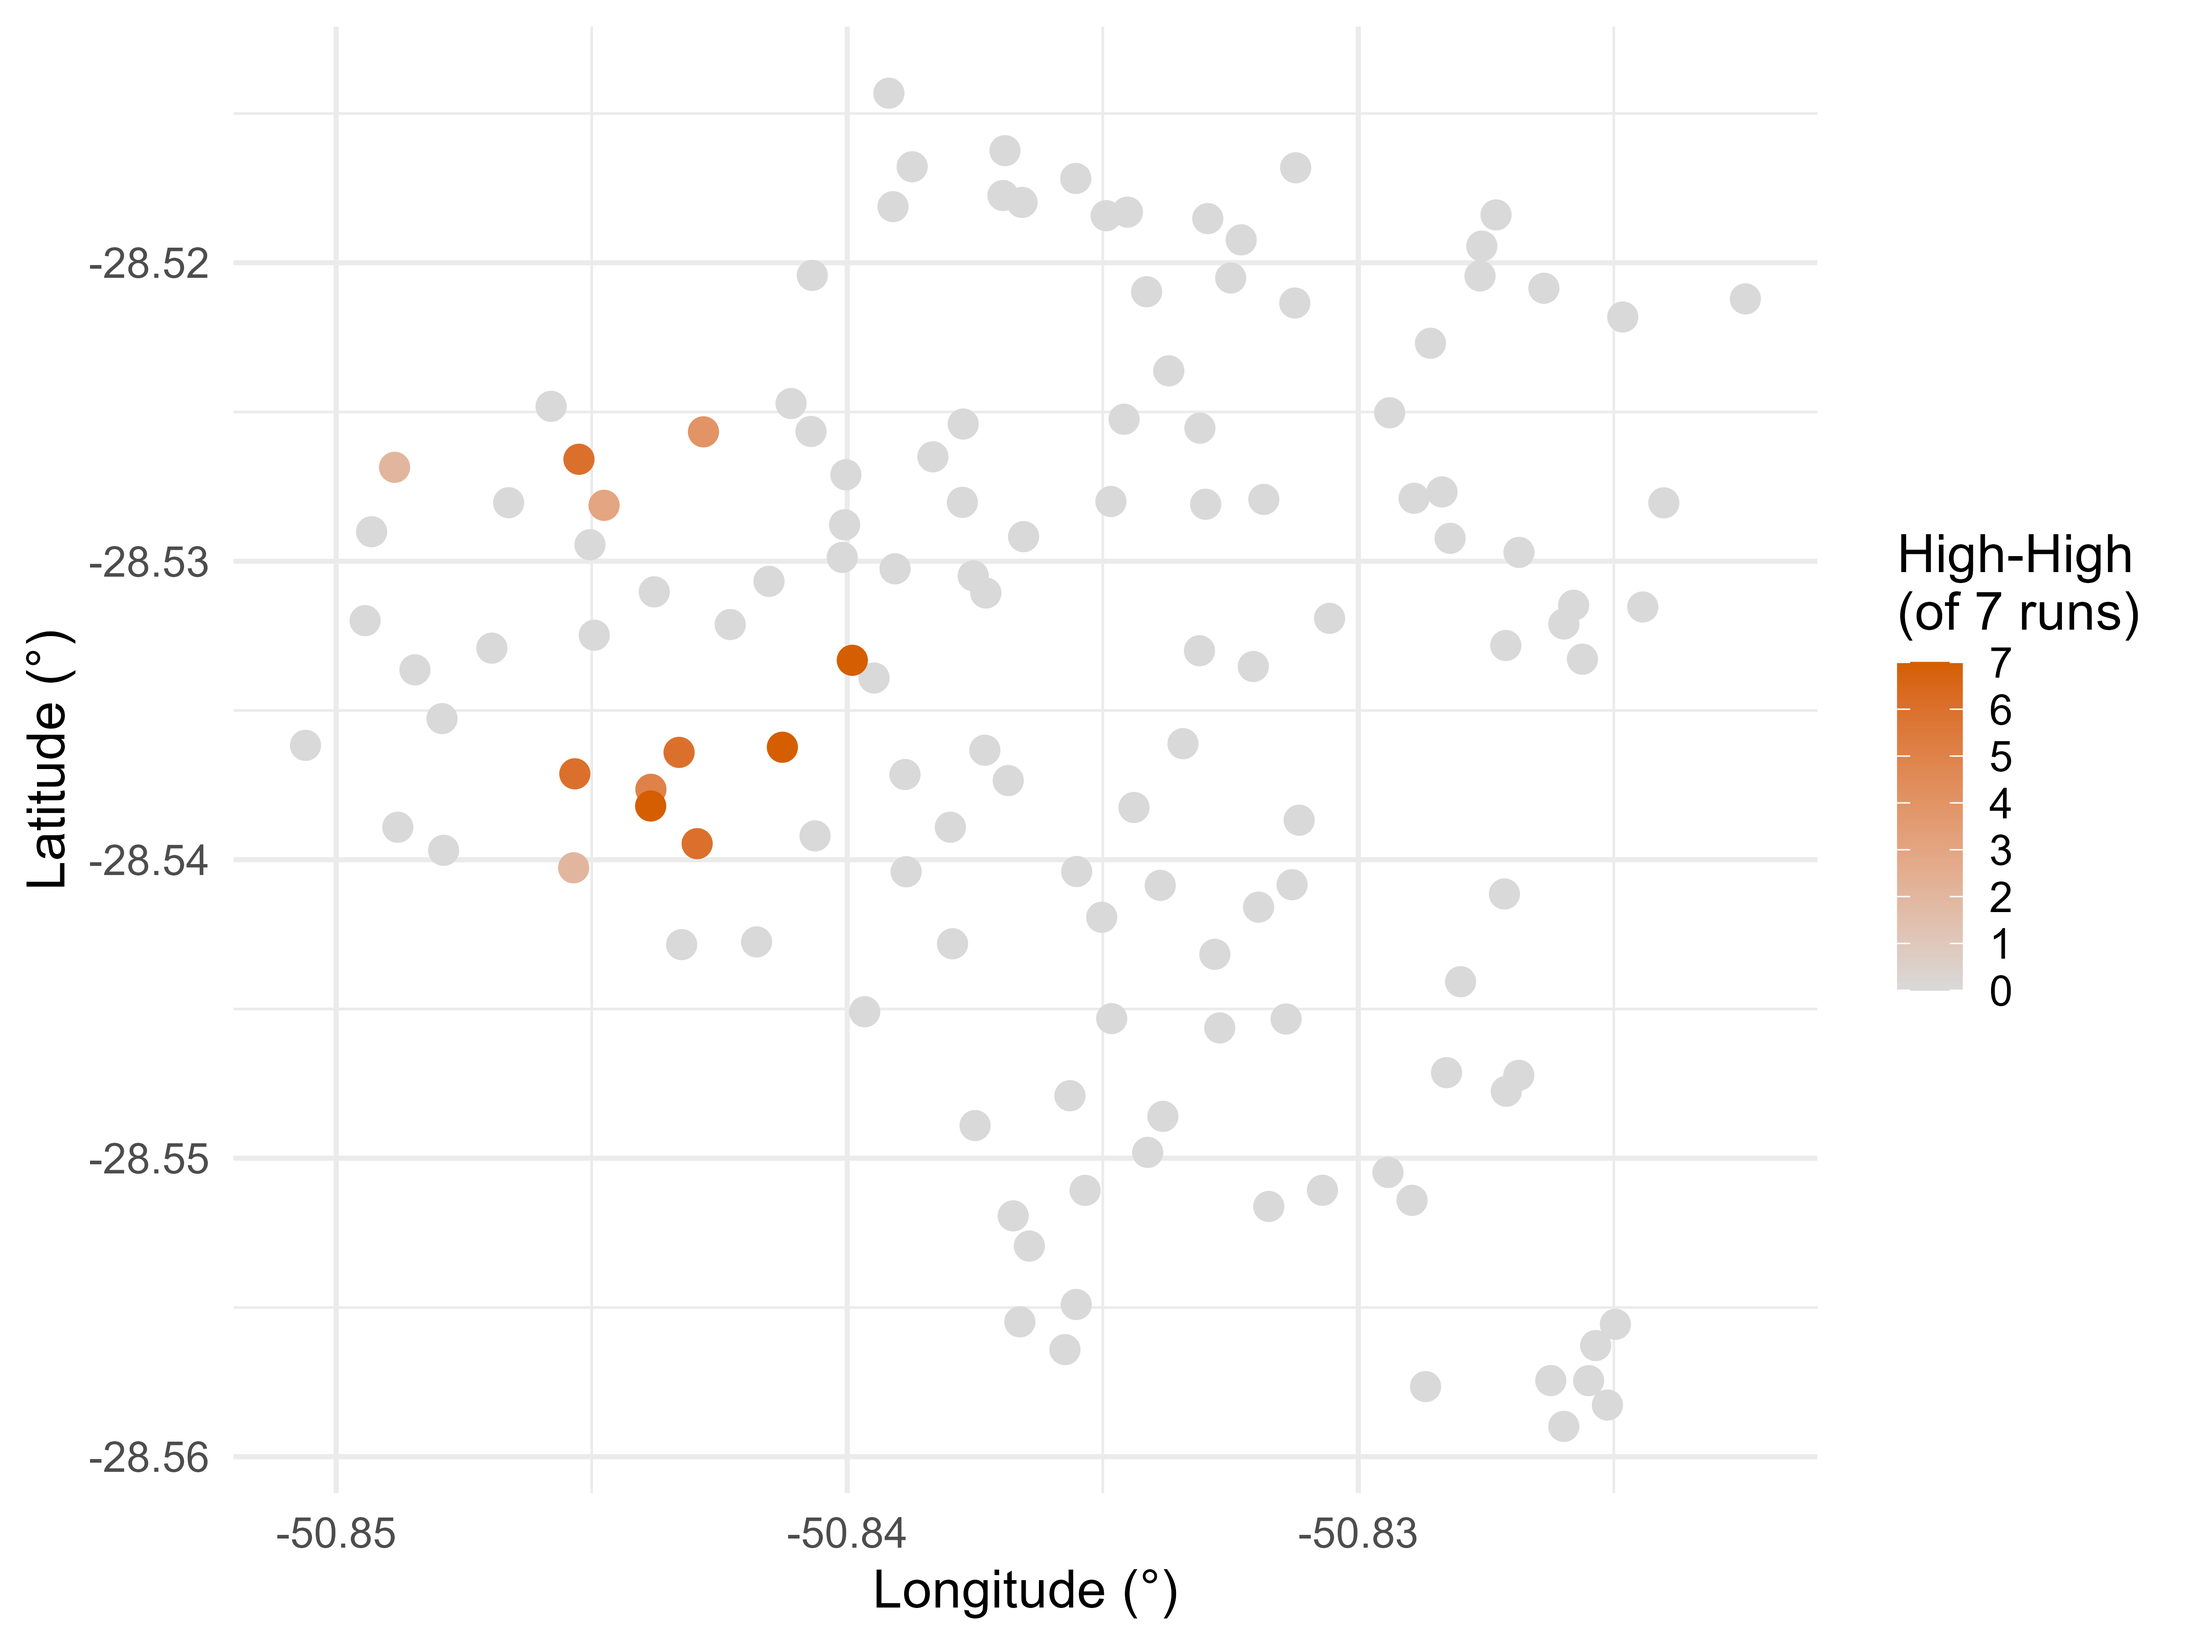
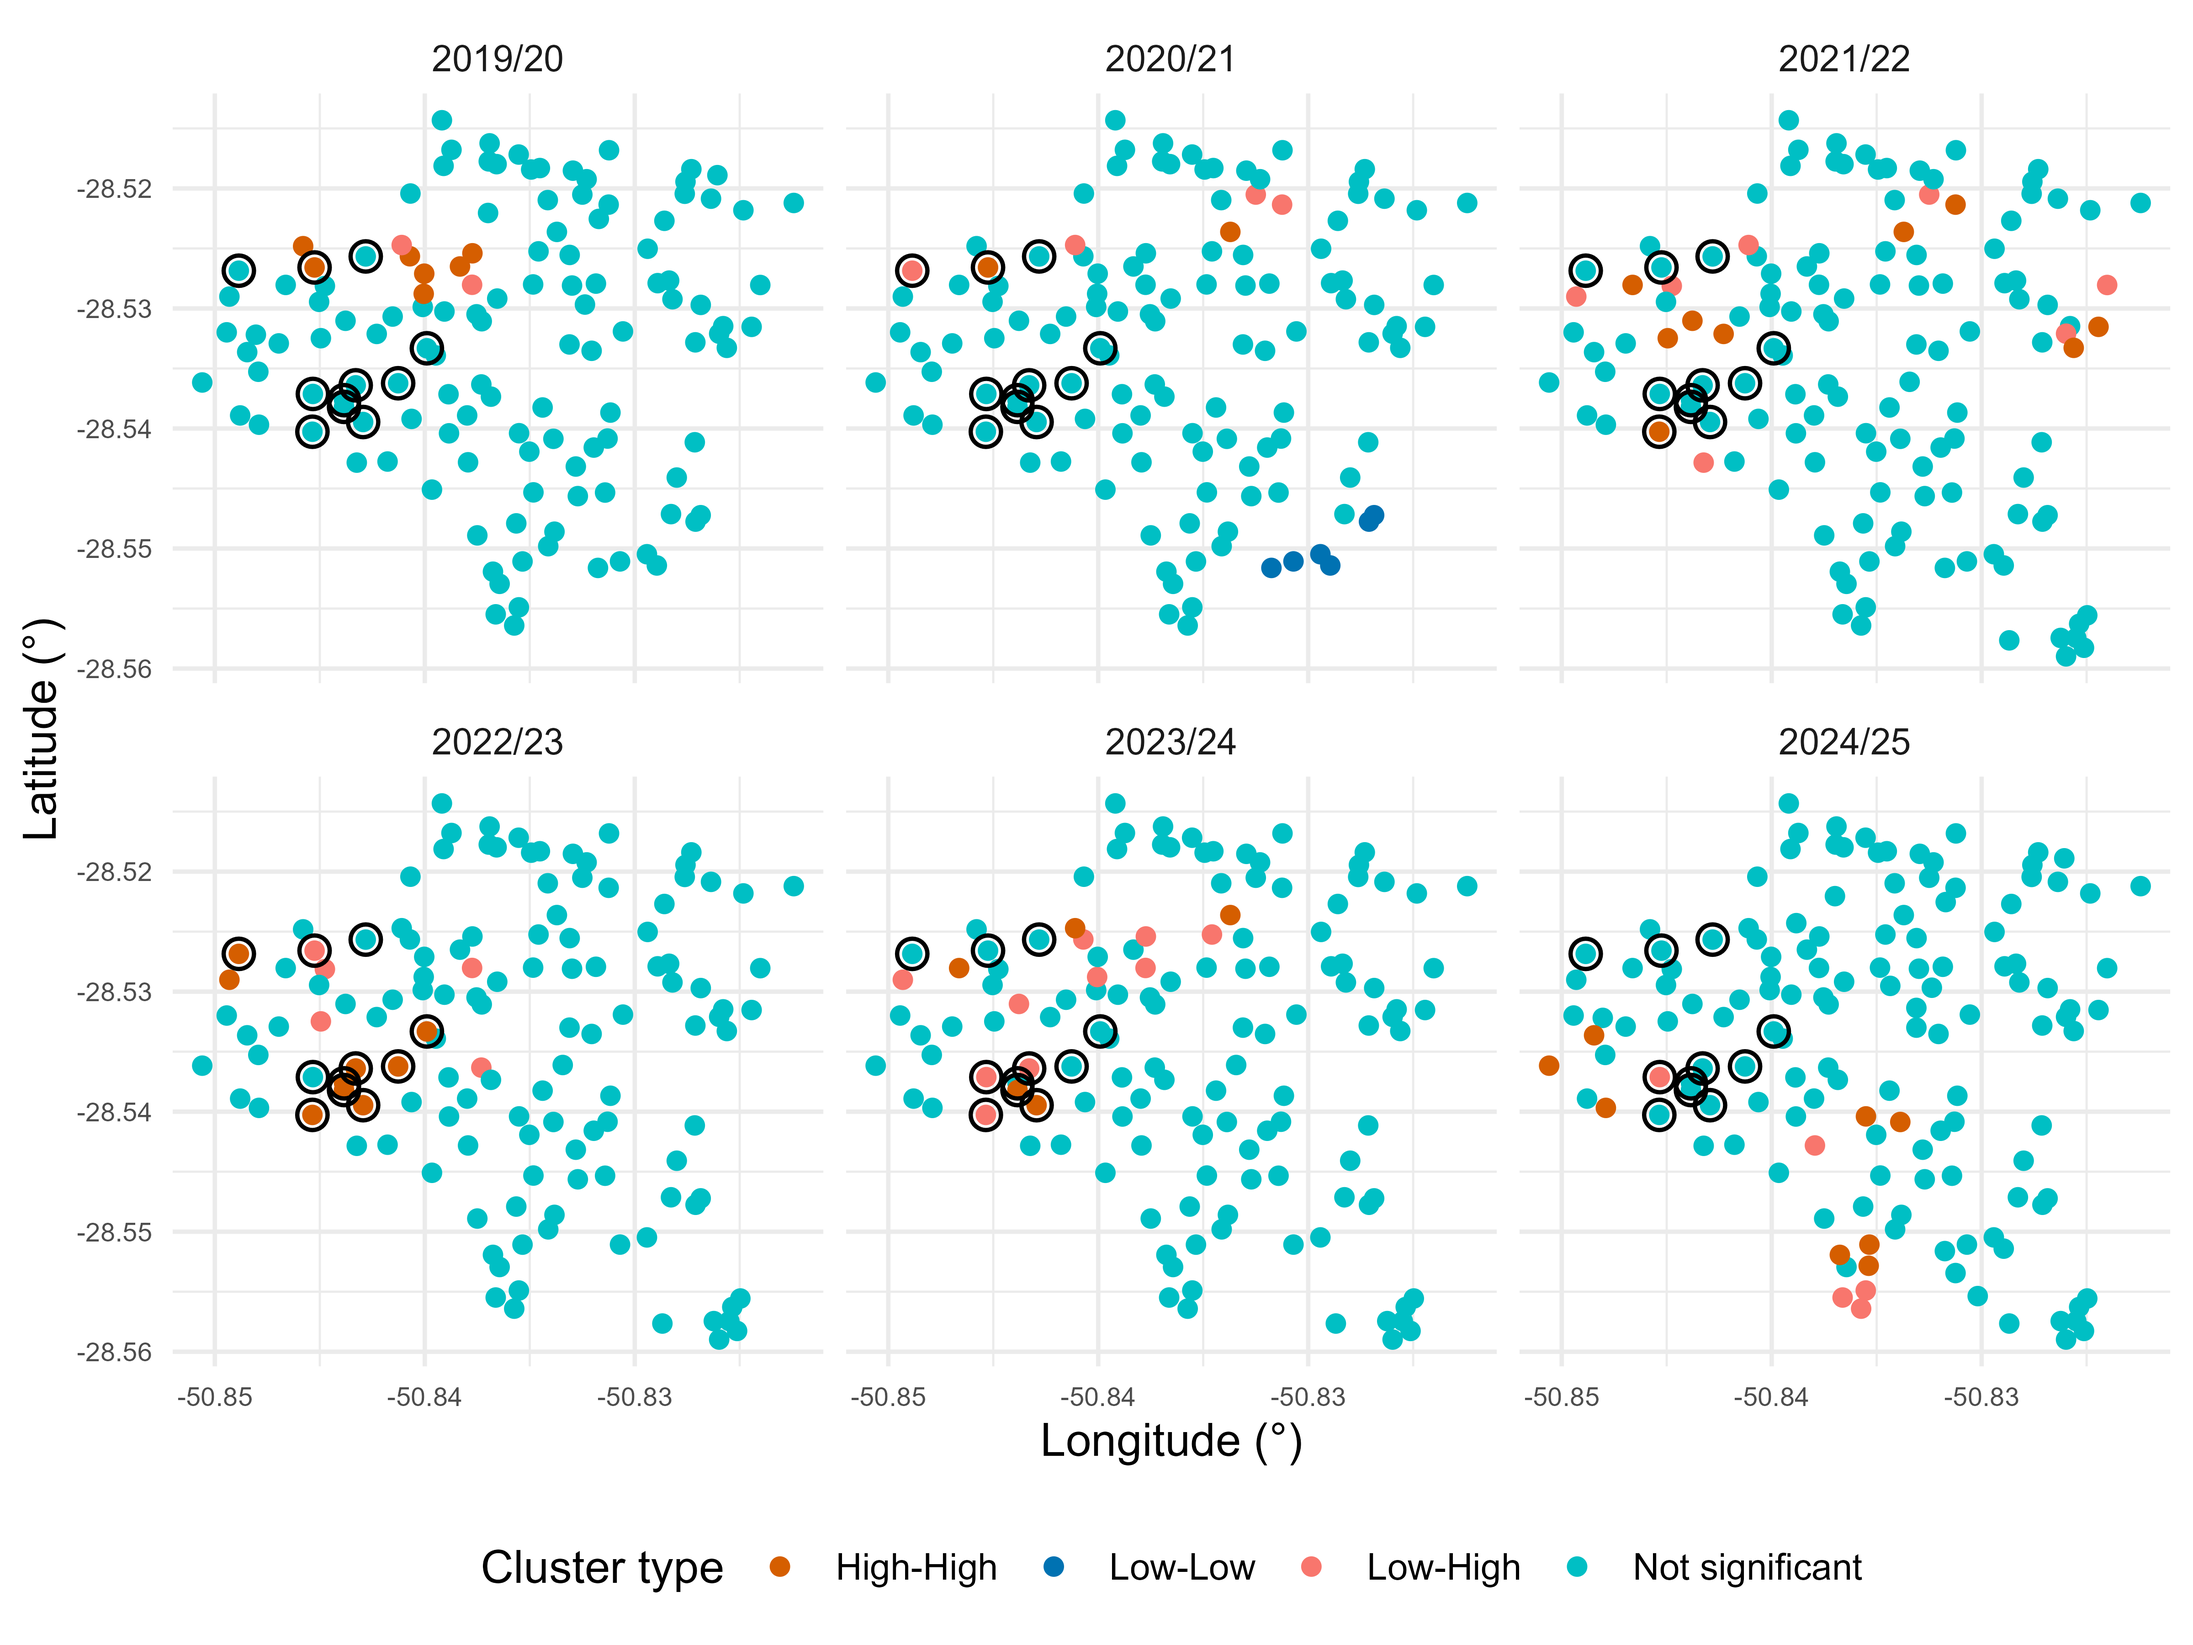
Renumber the supplementary tables and figures in the order of first citation in the manuscript
Sheet names S2 (Moran's I by k), S4 (class distribution), S5 (Kruskal-Wallis by scenario) and S6-S9 (Dunn tests), and figure files S1 (seasonal LISA maps), S2 (hotspot stability) and S3 (leave-one-event-out validation), now match the revised manuscript. No statistic changed.

diff --git a/README.md b/README.md
@@ -10,7 +10,7 @@ Analysis code and derived dataset for the manuscript *Spatial Structure and Recu
 | `spatial_recurrence_analysis.ipynb` | The same script as a Google Colab notebook |
 | `data/trap_captures_long.csv` | Derived, de-identified trap-level dataset (one row per trap and inspection date) |
 | `data/study_area_map.png` | Study-area map (Figure 1), produced in QGIS |
-| `output/tables.xlsx` | All tables, one sheet each |
+| `output/tables.xlsx` | All tables, one sheet each; the `S` prefixes follow the numbering of the supplementary tables in the manuscript (order of first citation) |
 | `output/figures/` | Figures 1 to 5 and S1 to S3 of the manuscript (600 dpi); Figure 1 is a copy of the QGIS map |
 | `output/analysis_log.txt` | Console log of the run that produced `output/` |
 | `output/session_info.txt` | R and package versions of that run |
@@ -60,8 +60,8 @@ Missing packages are installed automatically. The mixed models (section 14) take
 | 1 | Data preparation, trap activity by season | `trap_activity`, `traps_per_season` |
 | 2 to 3 | Trap-level summaries, k-nearest-neighbor weights (k = 4), global Moran's I and LISA for the full period | `main_text_numbers` |
 | 3b | Global Moran's I and LISA on the non-critical dates and in each growing season, with FDR correction | `moran_by_season`, `lisa_by_season` |
-| 4 to 5 | Critical events (orchard FTD > 0.5), recurrence classes, capture intensity, Moran's I and LISA during critical events, sensitivity to k, common trap sets, geometry of the High-High cluster | `S1_moran_by_k`, `class_summary`, `moran_common_sets`, `cluster_geometry` |
-| 6 | Threshold scenarios for the recurrence classes, Kruskal-Wallis and Dunn's tests | `S2_class_distribution`, `S3_kruskal_by_scenario`, `S4_dunn_S1_and_S4` to `S7_dunn_S5` |
+| 4 to 5 | Critical events (orchard FTD > 0.5), recurrence classes, capture intensity, Moran's I and LISA during critical events, sensitivity to k, common trap sets, geometry of the High-High cluster | `S2_moran_by_k`, `class_summary`, `moran_common_sets`, `cluster_geometry` |
+| 6 | Threshold scenarios for the recurrence classes, Kruskal-Wallis and Dunn's tests | `S4_class_distribution`, `S5_kruskal_by_scenario`, `S6_dunn_S1_and_S4` to `S9_dunn_S5` |
 | 7 | Critical events cross-referenced with the insecticide applications | `critical_events`, `insecticide_applications` |
 | 8 | Monte Carlo permutation tests (999 permutations); FDR, permutation + FDR and Bonferroni criteria with the High-High trap identifiers; overlap between full-period and critical-event clusters | `moran_global`, `lisa_critical_by_criterion`, `lisa_critical_traps`, `lisa_full_by_criterion`, `hotspot_overlap` |
 | 9 | Cluster stability: leave-one-event-out and k = 3 to 8 | `hotspot_by_k`, `hotspot_loo_by_event`, `hotspot_trap_stability` |
